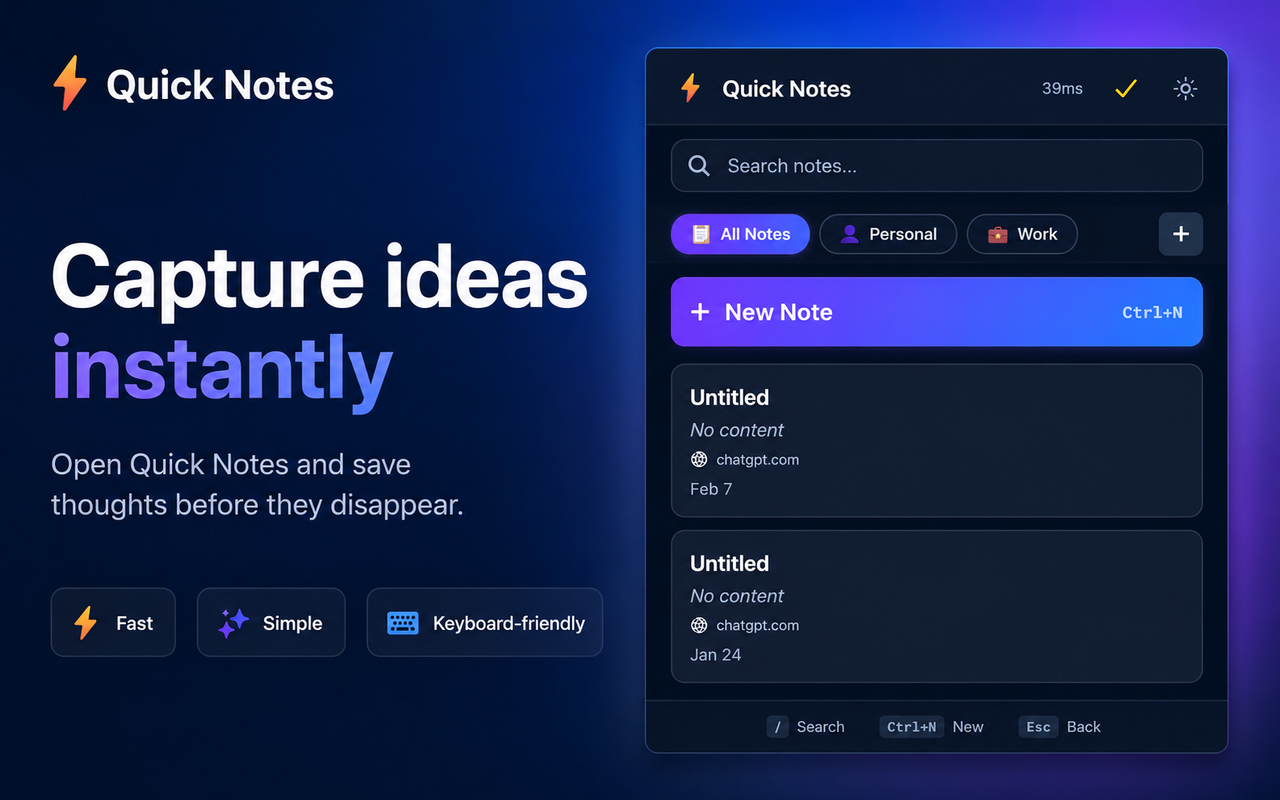
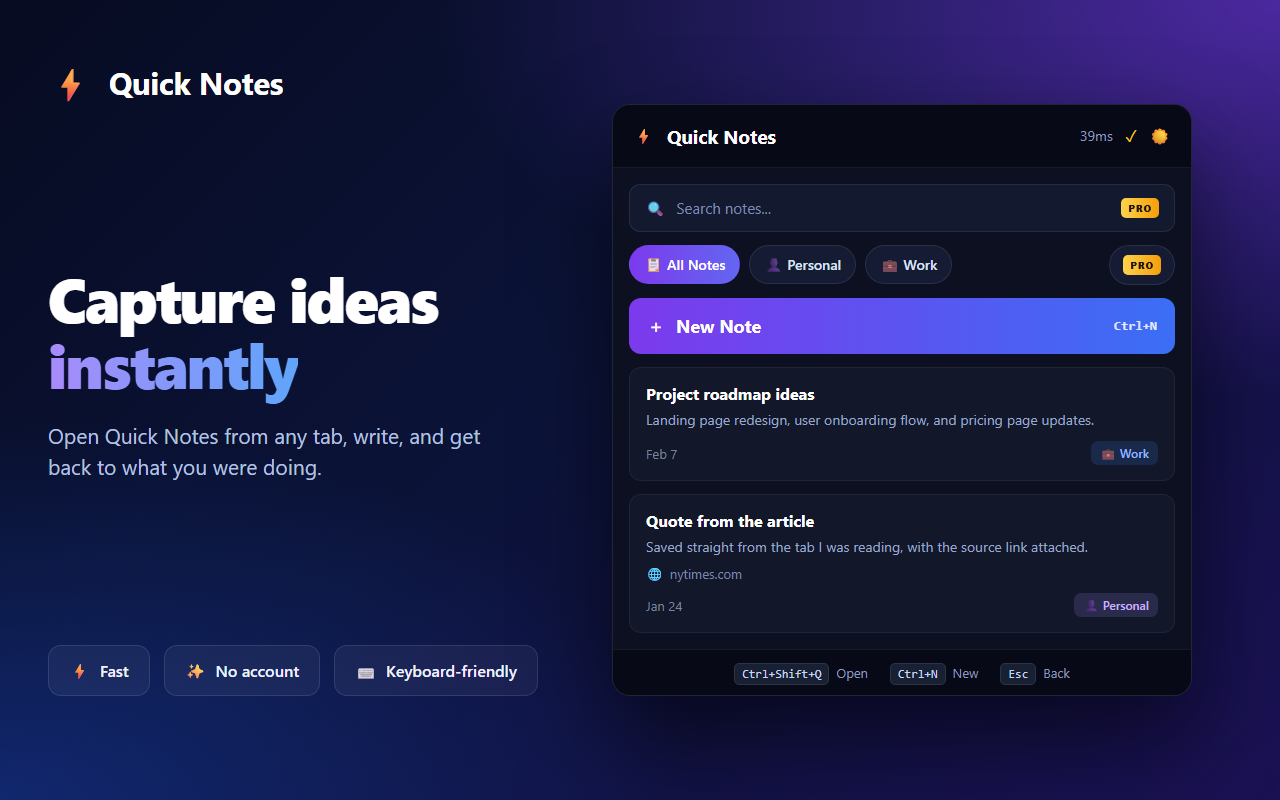
fix(landing): stop previewing an empty product
The five screenshots on the landing page were the original hand-made set, and
screenshot-1 is also the OpenGraph and Twitter card image. That image shows two
notes reading "Untitled" and "No content" — leftover test data — so every share
of getquicknotes.vercel.app on Slack, X, LinkedIn or anywhere else rendered a
preview of an empty notes app.

Replaced with the generated set: real demo content throughout, and a Pro badge on
search and folders so the page cannot imply they are free. The caption now names
what the images actually show rather than reminders and settings, which are not
among them.

Also roughly halves the page's image weight, from ~4.4 MB to ~2.2 MB.

diff --git a/landing/components/Screenshots.tsx b/landing/components/Screenshots.tsx
@@ -20,7 +20,8 @@ export function Screenshots() {
             See Quick Notes in action
           </h2>
           <p className="mt-4 text-slate-300">
-            Real extension screens: quick capture, folders, reminders, and settings.
+            Real extension screens: quick capture, search, folders, and local-only
+            storage. Pro features are marked as Pro.
           </p>
         </div>
 
